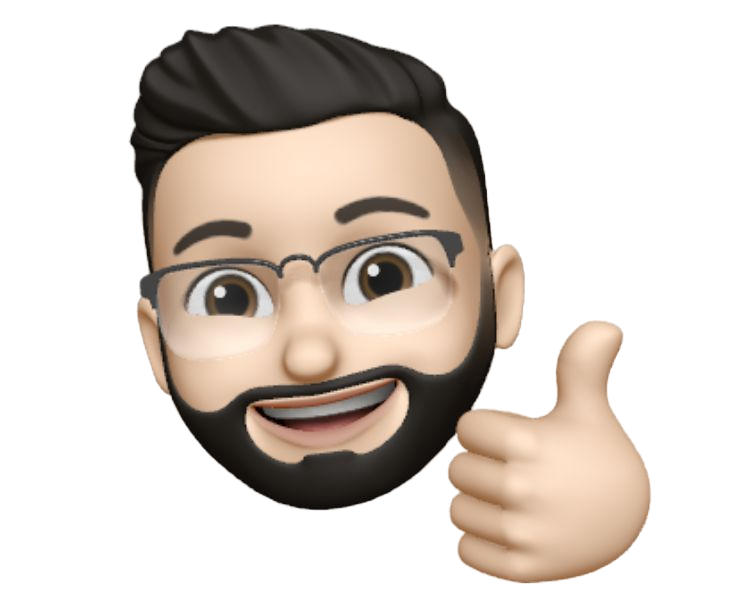
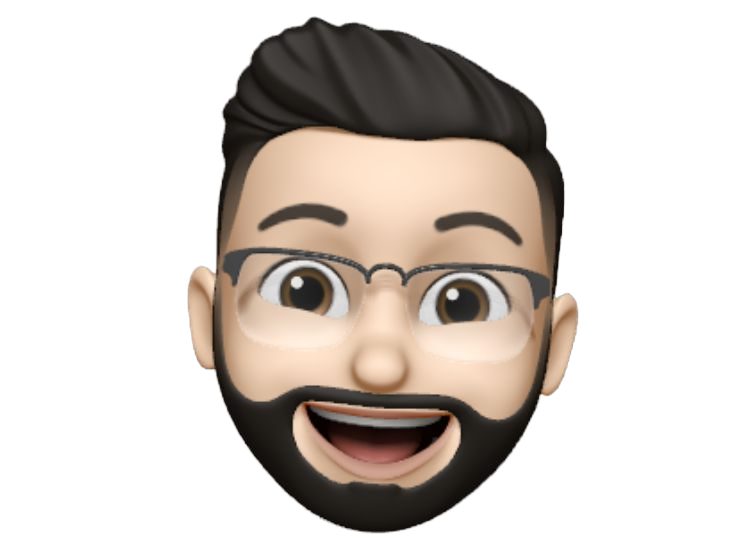
image

diff --git a/src/components/Hero/Hero.tsx b/src/components/Hero/Hero.tsx
@@ -1,4 +1,5 @@
 import Link from 'next/link'
+import Image from 'next/image'
 import { useTranslate } from '@/hooks'
 import styles from './Hero.module.scss'
 
@@ -6,7 +7,7 @@ export const Hero = () => {
   const { t } = useTranslate()
   return (
     <section className={styles.hero} id={t('hero.id')}>
-      <img src="/profile-2.png" alt="my profile" title="my profile" />
+      <Image src="/profile-2.png" alt="my profile" title="my profile" width={300} height={300} />
       <p className={styles.greeting}>{t('hero.greeting')}</p>
       <h1>
         {t('hero.exclamation')}
